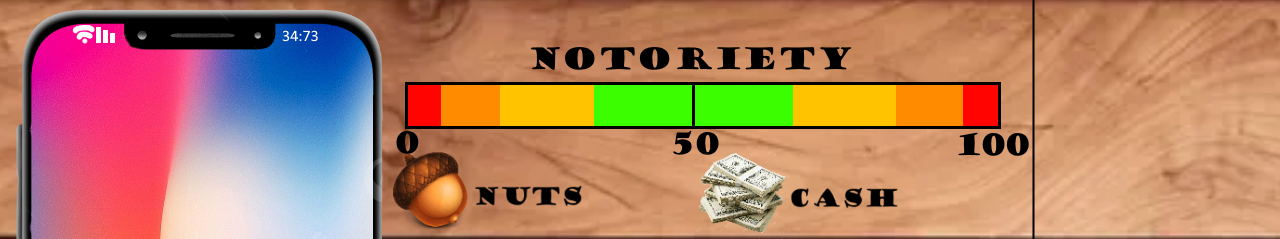
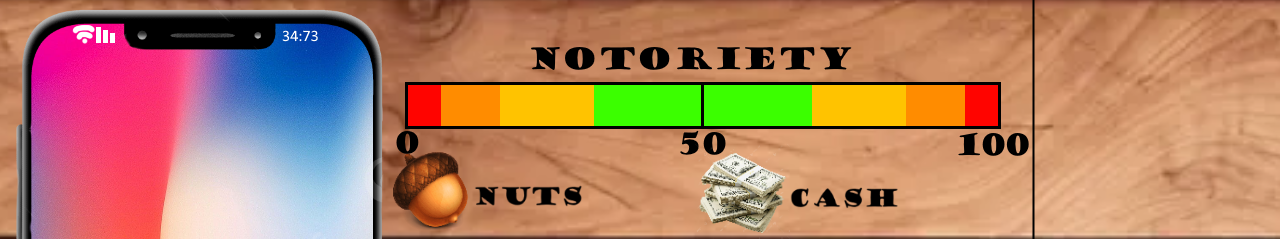
Added Notoriety, order timers, and cash (score)

Changed region(s): [[0.5938, 0.3515, 0.6562, 0.5272], [0.5312, 0.3515, 0.5938, 0.6444], [0.6875, 0.3515, 0.7188, 0.5272]]

diff --git a/src/main/kotlin/Main.kt b/src/main/kotlin/Main.kt
@@ -14,6 +14,10 @@ import kotlin.random.Random
 //CONSANTS
 const val MAP_ICON_SIZE = 70
 const val MAX_ORDERS = 3 //Used for testing keep on 3 otherwise won't work with current graphical assets
+const val NOTORIETY_MIN_X = 331
+const val NOTORIETY_MAX_X = 831
+const val ACORN_VALUE = 100
+
 
 fun ImageIcon.scaled(width: Int, height: Int): ImageIcon = ImageIcon(image.getScaledInstance(width, height, Image.SCALE_SMOOTH))
 
@@ -51,7 +55,11 @@ class Game {
     var travelling = false
     var travelProgress:Double = 0.00
 
+    var orderLikelihood = 0.00
+
+    var notoriety = 0.50
     var acorns = 0
+    var cash = 0
     var globalDifficultyMultiplier = 1.00
 
     var instancedDragObject = JLabel()
@@ -65,9 +73,9 @@ class Game {
 
     fun handleOrderTimer() {
         val randomOrderChance = Random.nextDouble(0.0,3.0)
-        if (randomOrderChance*globalDifficultyMultiplier > 2.8){
+        if ((randomOrderChance*globalDifficultyMultiplier)+orderLikelihood > 2.9){
             val possibleLocations = locations.filter { it.currentOrder == null && it.name != "Nut Den" }
-
+            orderLikelihood = 0.00
             if (orders.size < 3) {
                 val randomSeed = Random.nextDouble(0.2, 1.0)
                 val weightedSeed = (randomSeed * globalDifficultyMultiplier)
@@ -76,15 +84,24 @@ class Game {
 
                 location?.let { orders.add(it.createOrder(globalDifficultyMultiplier)) }
             }
-        }
+        }else orderLikelihood += 0.05
     }
 
     fun completeOrder(){
         acorns -= currentLocation.currentOrder?.acornNum ?: 0
-        globalDifficultyMultiplier += Random.nextDouble(0.01, 0.05)
-        println(globalDifficultyMultiplier)
-        orders.remove(currentLocation.currentOrder)
-        currentLocation.currentOrder = null
+        cash += currentLocation.currentOrder?.acornNum?.times(ACORN_VALUE) ?: 0
+        globalDifficultyMultiplier += Random.nextDouble(0.05, 0.15)
+        removeOrder(currentLocation, false)
+    }
+
+    fun removeOrder(location: Location, isFail: Boolean){
+        val notorietyAmount = location.currentOrder?.notorietyAmount?.toDouble() ?: 0.0
+
+        if (isFail) notoriety -= (notorietyAmount / 100)
+        else notoriety += (notorietyAmount / 100)
+
+        orders.remove(location.currentOrder)
+        location.currentOrder = null
     }
 }
 
@@ -149,29 +166,36 @@ class MainWindow(val game: Game) {
 
     //User Information
     private val nutAmount = JLabel(game.acorns.toString())
+    private val cash = JLabel(game.cash.toString())
 
-
+    private val notorietyMarker = JLabel()
+    private val notorietyImage = ImageIcon(ClassLoader.getSystemResource("images/noterietyMarker.png")).scaled(25, 25)
 
     private val orderLabels = mutableListOf<JLabel>()
     private val orderNames = mutableListOf<JLabel>()
     private val orderLocations = mutableListOf<JLabel>()
     private val orderNutAmount = mutableListOf<JLabel>()
     private val orderRepAmount = mutableListOf<JLabel>()
+    private val orderTimerProgress = mutableListOf<JProgressBar>()
     private val orderImage = ImageIcon(ClassLoader.getSystemResource("images/OrderNotification.png")).scaled(277, 47)
 
     //Timers
     private val travelTimer = Timer(10, null)
     private val seedDragTimer = Timer(10, null)
+    private val progressbarTimer = Timer(300, null)
     private val orderDirectorTimer = Timer(1000, null)
 
     init {
         orderDirectorTimer.start()
+        progressbarTimer.start()
         for (i in 0 until MAX_ORDERS){
             orderLabels.add(JLabel())
             orderNames.add(JLabel())
             orderLocations.add(JLabel())
             orderNutAmount.add(JLabel())
             orderRepAmount.add(JLabel())
+            orderTimerProgress.add(JProgressBar())
+            orderTimerProgress[i].value = 100
         }
         setupLayout()
         setupStyles()
@@ -193,6 +217,8 @@ class MainWindow(val game: Game) {
         travelPopup.setBounds(890, 590, 100, 30)
         toggleLocationButton.setBounds(890, 590, 180, 30)
         nutAmount.setBounds(500, 640, 100, 100)
+        cash.setBounds(770, 640, 100, 100)
+        notorietyMarker.setBounds(831, 600, 25, 25)
 
         //Graphical Elements
         locationMarker.setBounds((game.selectLocation.coordXMin+game.selectLocation.coordXMax)-MAP_ICON_SIZE, game.selectLocation.coordYMin-MAP_ICON_SIZE, MAP_ICON_SIZE, MAP_ICON_SIZE)
@@ -201,6 +227,7 @@ class MainWindow(val game: Game) {
         customerSpeech.setBounds(300, 20, 277, 176)
         speechText.setBounds(310, 30, 240, 100)
         orderButton.setBounds(310, 90, 230, 40)
+
 
         //Nut Den Elements
         seedSpawner.setBounds(430, 20, 100, 100)
@@ -221,22 +248,18 @@ class MainWindow(val game: Game) {
             orderNames[i].setBounds( 36, initialtextY, 277, 47)
             orderLocations[i].setBounds( 118, initialtextY, 277, 47)
             orderNutAmount[i].setBounds(245, initialtextY, 277, 47)
+            orderRepAmount[i].setBounds(285, initialtextY, 277, 47)
+            orderTimerProgress[i].setBounds(40, initialtextY+37, 260, 10)
 
             panel.add(orderLabels[i], JLayeredPane.DEFAULT_LAYER)
             panel.add(orderNames[i], JLayeredPane.DEFAULT_LAYER)
             panel.add(orderLocations[i], JLayeredPane.DEFAULT_LAYER)
             panel.add(orderNutAmount[i], JLayeredPane.DEFAULT_LAYER)
+            panel.add(orderRepAmount[i], JLayeredPane.DEFAULT_LAYER)
+            panel.add(orderTimerProgress[i], JLayeredPane.DEFAULT_LAYER)
 
             initialLabelY += yStep
             initialtextY += yStep
-        }
-
-        for (i in 0 until MAX_ORDERS){
-            orderLabels.add(JLabel(i.toString()))
-            orderNames.add(JLabel(i.toString()))
-            orderLocations.add(JLabel(i.toString()))
-            orderNutAmount.add(JLabel(i.toString()))
-            orderRepAmount.add(JLabel(i.toString()))
         }
 
         for (pot in pots){
@@ -244,6 +267,7 @@ class MainWindow(val game: Game) {
         }
 
         // Add all elements to screen
+        panel.add(notorietyMarker, JLayeredPane.DEFAULT_LAYER)
         panel.add(orderButton, JLayeredPane.DEFAULT_LAYER)
         panel.setLayer(orderButton, JLayeredPane.DEFAULT_LAYER+1)
         panel.add(speechText, JLayeredPane.DEFAULT_LAYER)
@@ -253,6 +277,7 @@ class MainWindow(val game: Game) {
         panel.add(waterSpawner, JLayeredPane.DEFAULT_LAYER)
         panel.add(seedSpawner, JLayeredPane.DEFAULT_LAYER)
         panel.add(nutAmount, JLayeredPane.DEFAULT_LAYER)
+        panel.add(cash, JLayeredPane.DEFAULT_LAYER)
         panel.add(dealerLocation, JLayeredPane.DEFAULT_LAYER)
         panel.add(locationMarker, JLayeredPane.DEFAULT_LAYER)
         panel.add(locationName, JLayeredPane.DEFAULT_LAYER)
@@ -271,6 +296,7 @@ class MainWindow(val game: Game) {
         locationMarker.icon = markerImage
         dealerLocation.icon = dealerIcon
         customerSpeech.icon = speechImage
+        notorietyMarker.icon = notorietyImage
 
         orderButton.icon = orderButtonImage
         orderButton.setBorderPainted(false)
@@ -298,6 +324,9 @@ class MainWindow(val game: Game) {
         nutAmount.font = Font(Font.SANS_SERIF, Font.BOLD, 20)
         nutAmount.foreground = Color.BLACK
 
+        cash.font = Font(Font.SANS_SERIF, Font.BOLD, 20)
+        cash.foreground = Color.BLACK
+
         travelPopup.font = Font(Font.SANS_SERIF, Font.BOLD, 13)
         travelPopup.foreground = Color.BLACK
 
@@ -312,6 +341,8 @@ class MainWindow(val game: Game) {
             orderLocations[i].foreground = Color.BLACK
             orderNutAmount[i].font = Font(Font.SANS_SERIF, Font.BOLD, 13)
             orderNutAmount[i].foreground = Color.BLACK
+            orderRepAmount[i].font = Font(Font.SANS_SERIF, Font.BOLD, 13)
+            orderRepAmount[i].foreground = Color.BLACK
         }
     }
 
@@ -333,6 +364,7 @@ class MainWindow(val game: Game) {
         travelTimer.addActionListener{ handleTravelTween() }
         seedDragTimer.addActionListener{ handleDrag() }
         orderDirectorTimer.addActionListener { handleOrderTimer() }
+        progressbarTimer.addActionListener { handleProgressbar() }
 
         for (i in pots.indices){
             pots[i].addMouseListener(handleMousePot(i))
@@ -438,7 +470,7 @@ class MainWindow(val game: Game) {
             "water"->{
                 if (pots[potID].icon == potImages[1]) {
                     pots[potID].icon = potImages[2]
-                    val acorntimer = Timer(1000, null)
+                    val acorntimer = Timer(3000, null)
                     if (!acorntimer.isRunning){
                         pots[potID].icon = potImages[3]
                         acorntimer.addActionListener{ potInteract(potID, acorntimer) }
@@ -507,9 +539,28 @@ class MainWindow(val game: Game) {
         updateUI()
     }
 
+    private fun handleProgressbar(){
+        game.notoriety-= 0.0012
+        notorietyMarker.setBounds((NOTORIETY_MIN_X + game.notoriety * (NOTORIETY_MAX_X - NOTORIETY_MIN_X)).toInt(), 600, 25, 25)
+
+        for (location in game.locations){
+            val orderIndex = game.orders.indexOf(location.currentOrder)
+            if (orderIndex in game.orders.indices){
+
+                location.currentOrder?.reduceOrderTimer()
+                orderTimerProgress[orderIndex].value = location.currentOrder?.timerVal ?: 100
+                if(orderTimerProgress[orderIndex].value <= 0){
+                    orderTimerProgress[orderIndex].value = 100
+                    game.removeOrder(location,true)
+                    handleProgressbar()
+                    updateUI()
+                }
+            }
+        }
+    }
+
     //  ---------------------------------- UPDATE FUNCTION
     fun updateUI() {
-        println("update")
         if (game.isOnWorldMap) {
             //World Map setup
             gameBackgroundLabel.icon = mapImage
@@ -573,22 +624,24 @@ class MainWindow(val game: Game) {
 
         //Global UI
         nutAmount.text = game.acorns.toString()
+        cash.text = game.cash.toString()
+        notorietyMarker.setBounds((NOTORIETY_MIN_X + game.notoriety * (NOTORIETY_MAX_X - NOTORIETY_MIN_X)).toInt(), 600, 25, 25)
 
-        for (i in orderLabels.indices){
-            orderLabels[i].isVisible = false
-            orderNames[i].isVisible = false
-            orderLocations[i].isVisible = false
-            orderNutAmount[i].isVisible = false
+        for (i in 0 until MAX_ORDERS){
+            val visible = i < game.orders.size
+            orderLabels[i].isVisible = visible
+            orderNames[i].isVisible = visible
+            orderLocations[i].isVisible = visible
+            orderNutAmount[i].isVisible = visible
+            orderRepAmount[i].isVisible = visible
+            orderTimerProgress[i].isVisible = visible
         }
 
         for (i in game.orders.indices){
-            orderLabels[i].isVisible = true
-            orderNames[i].isVisible = true
-            orderLocations[i].isVisible = true
-            orderNutAmount[i].isVisible = true
             orderNames[i].text = game.orders[i].customerName
             orderLocations[i].text = game.orders[i].locationName
             orderNutAmount[i].text = game.orders[i].acornNum.toString()
+            orderRepAmount[i].text = game.orders[i].notorietyAmount.toString()
         }
     }
 
@@ -611,7 +664,8 @@ class Order(val difficultyMultiplier:Double, val locationName:String) {
     val customerName = getName()
     val customerSpeech = getSpeechPrompt()
     val acornNum = getAcornAmount()
-
+    val notorietyAmount = getRepAmount()
+    var timerVal = 100
 
     fun getIcon():ImageIcon {
         val customerImages = listOf(
@@ -675,5 +729,14 @@ class Order(val difficultyMultiplier:Double, val locationName:String) {
     fun getAcornAmount():Int{
         val acorns = (Random.nextDouble(0.5, 1.5) * (difficultyMultiplier*difficultyMultiplier*2)).toInt()
         return acorns
+    }
+
+    fun getRepAmount():Int{
+        val notoriety = (Random.nextInt(5, 20) * (difficultyMultiplier)).toInt()
+        return notoriety
+    }
+
+    fun reduceOrderTimer(){
+        timerVal -= 1
     }
 }